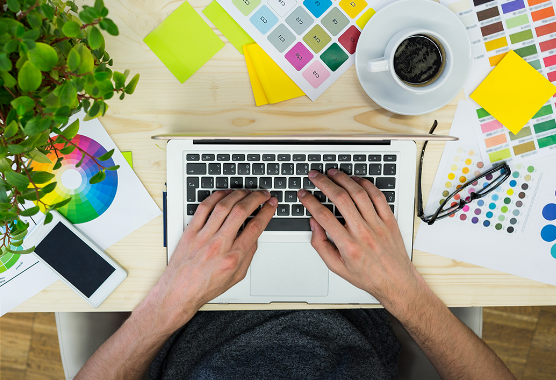
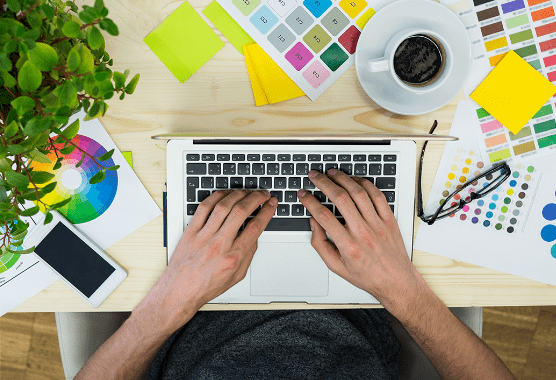
images compressed, updated readme file

diff --git a/README.md b/README.md
@@ -20,7 +20,7 @@ Use the [git](https://git-scm.com/downloads) to install smart-tool , and follow 
 
 ###### step 1: Take a clone of repository.
 ```bash
-git clone https://github.com/mobiosolutions/smart-tool-angular-theme.git
+git clone https://github.com/mobiosolutions/smart-tool-bootstrap4-html-theme.git
 ```
 ###### Step 2: Move to the specific folder.
 ```bash
